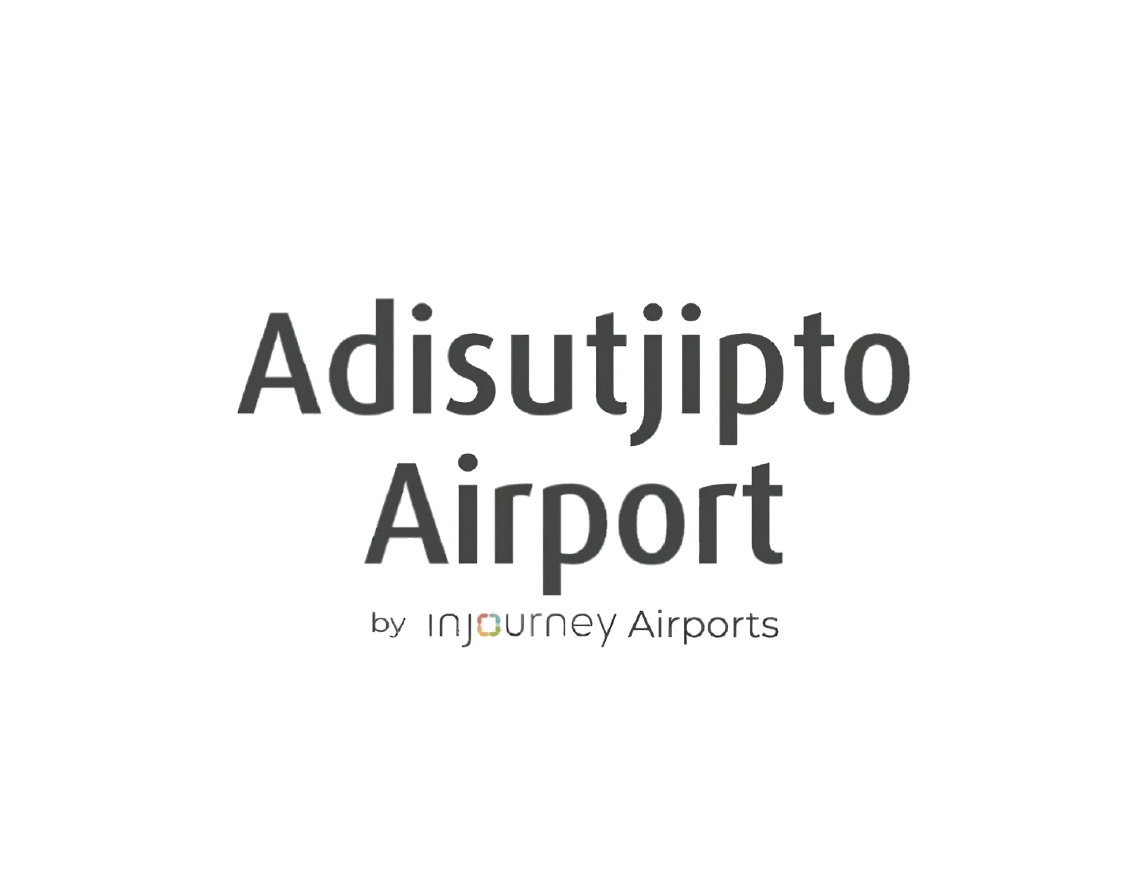
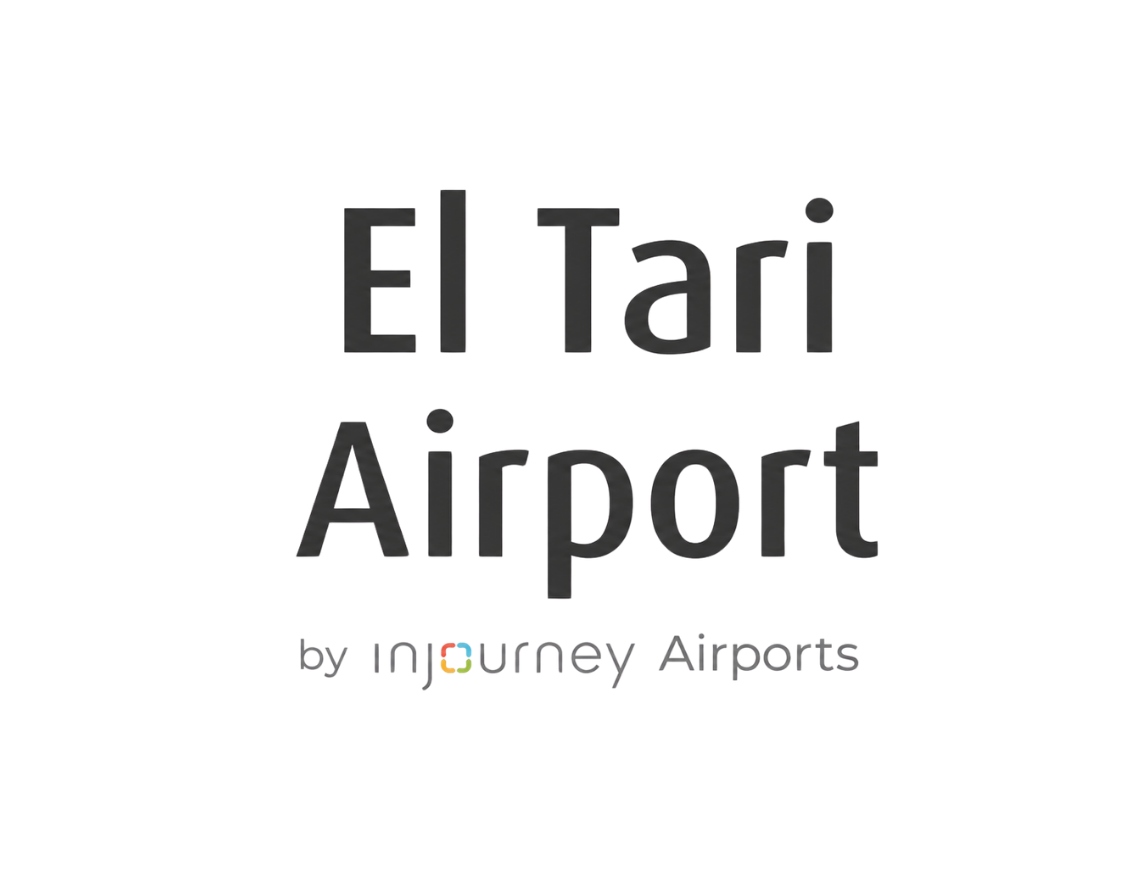
feat: add review forms for daily security equipment testing and create dedicated UI components for system maintenance inputs

Changed region(s): [[0.2138, 0.2172, 0.7941, 0.7759]]

diff --git a/resources/views/daily-test/review-form/hhmdReviewForm.blade.php b/resources/views/daily-test/review-form/hhmdReviewForm.blade.php
@@ -24,10 +24,10 @@
                 <div class="border-2 border-black bg-white shadow">
                     <table class="w-full text-xs sm:text-sm">
                         <tbody>
-                            <tr class="border-b border-black">
+                            <tr class="border-b border-black ">
                                 <th class="w-1/3 text-left p-1 sm:p-2">Nama Operator Penerbangan:</th>
                                 <td class="w-2/3 p-2">
-                                    <input type="text" value="Bandar Udara Adisutjipto Yogyakarta" readonly>
+                                    <input class="w-full" type="text" value="Bandar Udara International El Tari Kupang" readonly>
                                 </td>
                             </tr>
                             <tr class="border-b border-black">

diff --git a/resources/views/checklist/kendaraan/checklistKendaraan.blade.php b/resources/views/checklist/kendaraan/checklistKendaraan.blade.php
@@ -58,7 +58,7 @@
                 <div class="space-y-1 sm:space-y-2">
                     <label class="block text-xs sm:text-sm font-semibold text-gray-700">Nama Operator
                         Penerbangan:</label>
-                    <input type="text" name="operator_name" value="Bandar Udara Adisutjipto Yogyakarta" readonly
+                    <input type="text" name="operator_name" value="Bandar Udara International El Tari Kupang" readonly
                         class="w-full px-3 sm:px-4 py-2 sm:py-3 border border-gray-300 rounded-lg focus:ring-2 focus:ring-blue-500 focus:border-blue-500 text-sm sm:text-base bg-gray-100">
                 </div>
                 <div class="space-y-1 sm:space-y-2">

diff --git a/resources/views/components/hhmd-form.blade.php b/resources/views/components/hhmd-form.blade.php
@@ -74,7 +74,7 @@
                             <td class="w-2/3 p-2">
                                 <input type="text" id="operatorName" name="operatorName"
                                     class="w-full border rounded px-1 py-1 sm:px-2 sm:py-1 text-xs sm:text-base"
-                                    value="Bandar Udara Adisutjipto Yogyakarta" readonly>
+                                    value="Bandar Udara International El Tari Kupang" readonly>
                             </td>
                         </tr>
                         <tr class="border-b border-black">

diff --git a/resources/views/components/wtmd-form.blade.php b/resources/views/components/wtmd-form.blade.php
@@ -71,7 +71,7 @@
                             <td class="w-2/3 p-2">
                                 <input type="text" id="operatorName" name="operatorName"
                                     class="w-full border rounded px-1 py-1 sm:px-2 sm:py-1 text-xs sm:text-base"
-                                    value="Bandar Udara Adisutjipto Yogyakarta" readonly>
+                                    value="Bandar Udara International El Tari Kupang" readonly>
                             </td>
                         </tr>
                         <tr class="border-b border-black">

diff --git a/resources/views/components/xrayBagasi-form.blade.php b/resources/views/components/xrayBagasi-form.blade.php
@@ -68,7 +68,7 @@
                             <td class="w-2/3 p-2">
                                 <input type="text" id="operatorName" name="operatorName"
                                     class="w-full border rounded px-1 py-1 sm:px-2 sm:py-1 text-xs sm:text-base"
-                                    value="Bandar Udara Adisutjipto Yogyakarta" readonly>
+                                    value="Bandar Udara International El Tari Kupang" readonly>
                             </td>
                         </tr>
                         <tr class="border-b border-black">

diff --git a/resources/views/components/xrayCabin-form.blade.php b/resources/views/components/xrayCabin-form.blade.php
@@ -69,7 +69,7 @@
                             <td class="w-2/3 p-2">
                                 <input type="text" id="operatorName" name="operatorName"
                                     class="w-full border rounded px-1 py-1 sm:px-2 sm:py-1 text-xs sm:text-base"
-                                    value="Bandar Udara Adisutjipto Yogyakarta" readonly>
+                                    value="Bandar Udara International El Tari Kupang" readonly>
                             </td>
                         </tr>
                         <tr class="border-b border-black">

diff --git a/resources/views/daily-test/review-form/wtmdReviewForm.blade.php b/resources/views/daily-test/review-form/wtmdReviewForm.blade.php
@@ -26,7 +26,7 @@
                             <tr class="border-b border-black">
                                 <th class="w-1/3 text-left p-1 sm:p-2">Nama Operator Penerbangan:</th>
                                 <td class="w-2/3 p-2">
-                                    <input type="text" value="Bandar Udara Adisutjipto Yogyakarta" readonly>
+                                    <input type="text" class="w-full" value="Bandar Udara International El Tari Kupang" readonly>
                                 </td>
                             </tr>
                             <tr class="border-b border-black">

diff --git a/resources/views/daily-test/review-form/xrayBagasiReviewForm.blade.php b/resources/views/daily-test/review-form/xrayBagasiReviewForm.blade.php
@@ -25,7 +25,7 @@
                             <tr class="border-b border-black">
                                 <th class="w-1/3 text-left p-1 sm:p-2">Nama Operator Penerbangan:</th>
                                 <td class="w-2/3 p-2">
-                                    <input type="text" value="Bandar Udara Adisutjipto Yogyakarta" readonly>
+                                    <input type="text" class="w-full" value="Bandar Udara International El Tari Kupang" readonly>
                                 </td>
                             </tr>
                             <tr class="border-b border-black">

diff --git a/resources/views/daily-test/review-form/xrayCabinReviewForm.blade.php b/resources/views/daily-test/review-form/xrayCabinReviewForm.blade.php
@@ -25,7 +25,7 @@
                             <tr class="border-b border-black">
                                 <th class="w-1/3 text-left p-1 sm:p-2">Nama Operator Penerbangan:</th>
                                 <td class="w-2/3 p-2">
-                                    <input type="text" value="Bandar Udara Adisutjipto Yogyakarta" readonly>
+                                    <input type="text" class="w-full" value="Bandar Udara International El Tari Kupang" readonly>
                                 </td>
                             </tr>
                             <tr class="border-b border-black">

diff --git a/resources/views/officer/editHhmd.blade.php b/resources/views/officer/editHhmd.blade.php
@@ -47,7 +47,7 @@
                                 <th class="w-1/3 text-left p-2">Nama Operator Penerbangan:</th>
                                 <td class="w-2/3 p-2">
                                     <input type="text" name="operatorName"
-                                        value="Bandar Udara Adisutjipto Yogyakarta"
+                                        value="Bandar Udara International El Tari Kupang"
                                         class="w-full border rounded px-2 py-1 bg-gray-100" readonly>
                                 </td>
                             </tr>

diff --git a/resources/views/officer/editWtmd.blade.php b/resources/views/officer/editWtmd.blade.php
@@ -47,7 +47,7 @@
                                     <th class="w-1/3 text-left p-2">Nama Operator Penerbangan:</th>
                                     <td class="w-2/3 p-2">
                                         <input type="text" name="operatorName"
-                                            value="Bandar Udara Adisutjipto Yogyakarta"
+                                            value="Bandar Udara International El Tari Kupang"
                                             class="w-full border rounded px-2 py-1" readonly>
                                     </td>
                                 </tr>

diff --git a/resources/views/officer/editXrayBagasi.blade.php b/resources/views/officer/editXrayBagasi.blade.php
@@ -46,7 +46,7 @@
                                     <th class="w-1/3 text-left p-2">Nama Operator Penerbangan:</th>
                                     <td class="w-2/3 p-2">
                                         <input type="text" name="operatorName"
-                                            value="Bandar Udara Adisutjipto Yogyakarta"
+                                            value="Bandar Udara International El Tari Kupang"
                                             class="w-full border rounded px-2 py-1" readonly>
                                     </td>
                                 </tr>